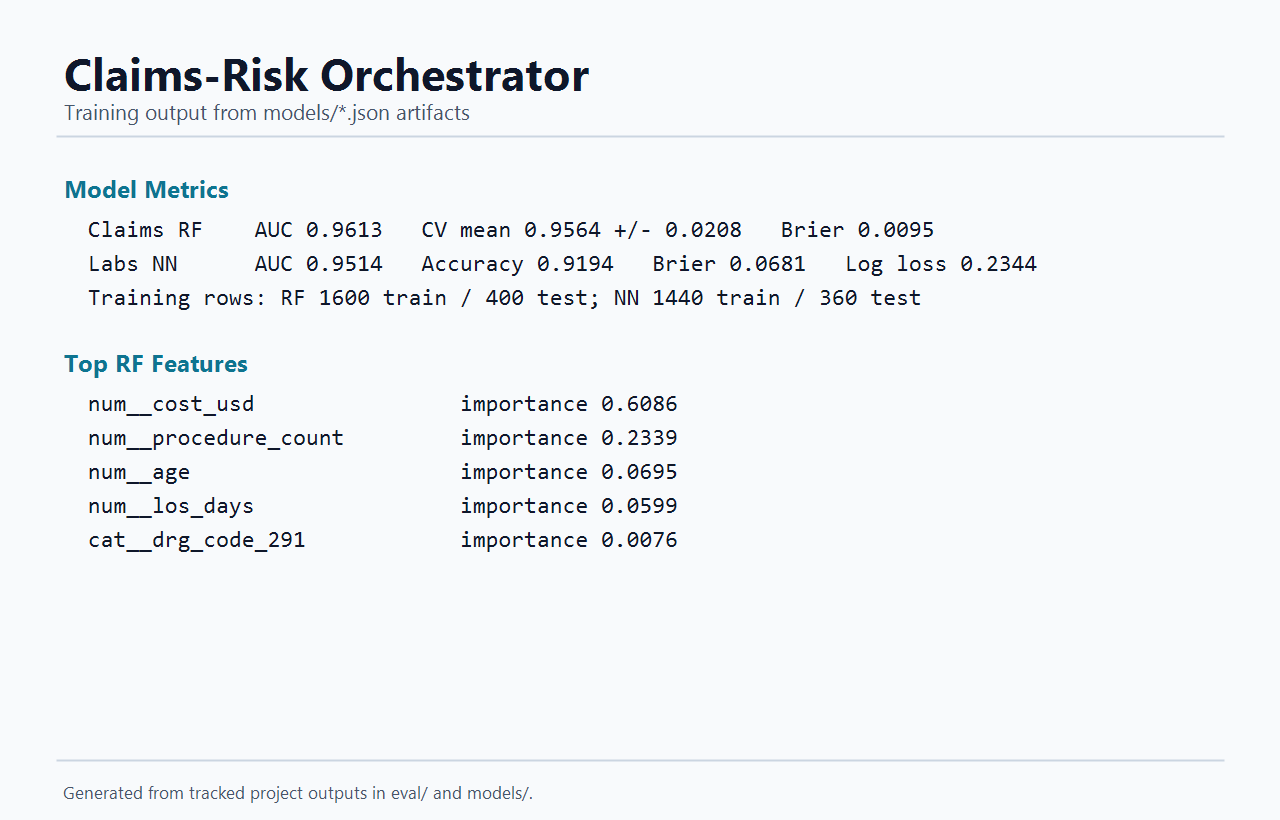
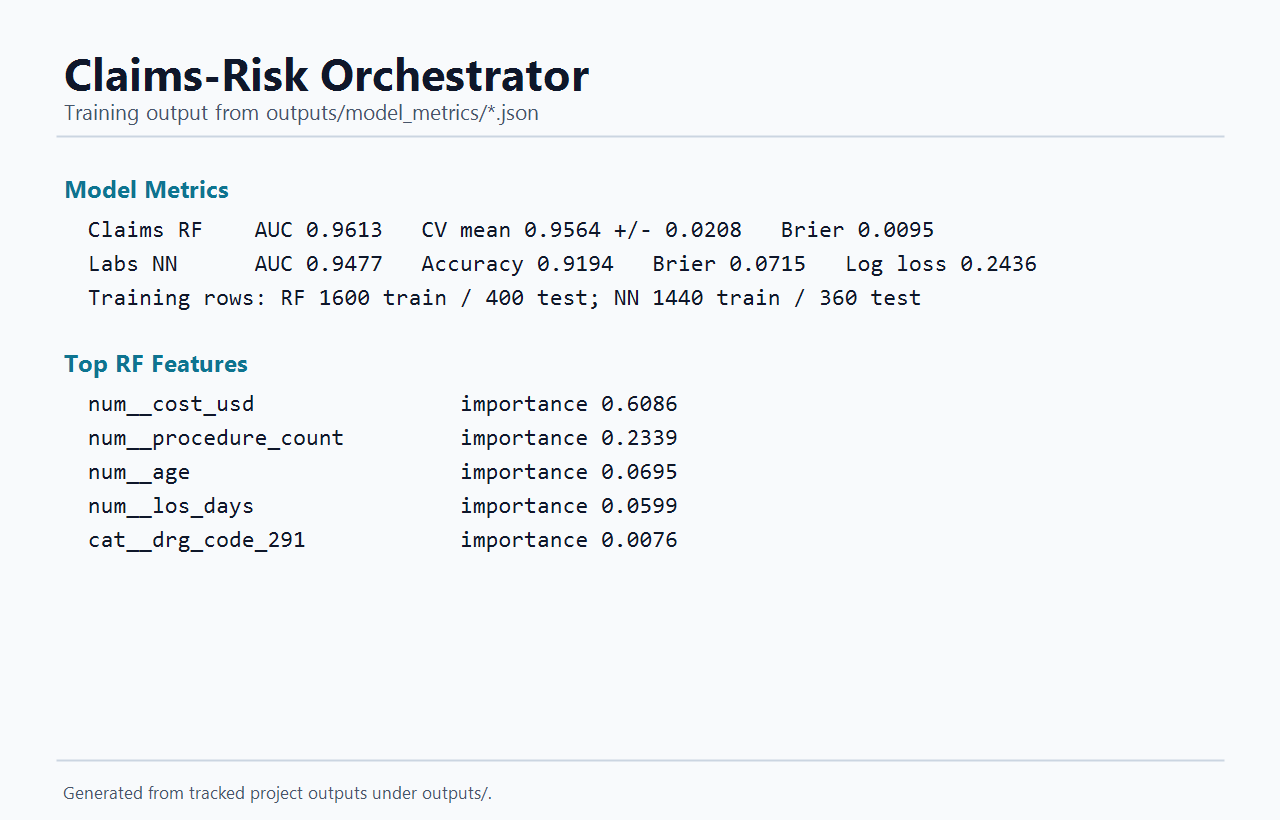
Move published results into outputs

diff --git a/src/train_claims_rf.py b/src/train_claims_rf.py
@@ -2,9 +2,9 @@
 Train the Random Forest claims anomaly classifier.
 
 Inputs : data/claims.csv
-Outputs: models/claims_rf.joblib       (model + scaler bundled)
-         models/claims_rf_metrics.json (AUC + calibration + report)
-         models/claims_rf_feature_importance.json (top features)
+Outputs: models/claims_rf.joblib                       (model + scaler bundled)
+         outputs/model_metrics/claims_rf_metrics.json  (AUC + calibration + report)
+         outputs/model_metrics/claims_rf_feature_importance.json (top features)
          mlruns/                       (MLflow tracking — when mlflow installed)
 
 Usage  : python -m src.train_claims_rf
@@ -139,6 +139,7 @@ def main() -> None:
     )[:10]
 
     Path("models").mkdir(exist_ok=True)
+    Path("outputs/model_metrics").mkdir(parents=True, exist_ok=True)
     joblib.dump(pipe, "models/claims_rf.joblib")
 
     metrics = {
@@ -153,8 +154,10 @@ def main() -> None:
         "positive_rate_train": round(float(y_tr.mean()), 4),
         "positive_rate_test": round(float(y_te.mean()), 4),
     }
-    Path("models/claims_rf_metrics.json").write_text(json.dumps(metrics, indent=2))
-    Path("models/claims_rf_feature_importance.json").write_text(
+    metrics_path = Path("outputs/model_metrics/claims_rf_metrics.json")
+    importances_path = Path("outputs/model_metrics/claims_rf_feature_importance.json")
+    metrics_path.write_text(json.dumps(metrics, indent=2))
+    importances_path.write_text(
         json.dumps(
             {"top_features": [{"feature": f, "importance": round(i, 4)} for f, i in top_features]},
             indent=2,
@@ -187,8 +190,8 @@ def main() -> None:
                 "f1_pos": float(report["1"]["f1-score"]),
             })
             mlflow.log_artifact("models/claims_rf.joblib")
-            mlflow.log_artifact("models/claims_rf_metrics.json")
-            mlflow.log_artifact("models/claims_rf_feature_importance.json")
+            mlflow.log_artifact(str(metrics_path))
+            mlflow.log_artifact(str(importances_path))
 
     print(f"Random Forest holdout AUC: {auc:.4f}")
     print(f"  5-fold CV AUC: {np.mean(cv_aucs):.4f} ± {np.std(cv_aucs):.4f}")
@@ -196,6 +199,8 @@ def main() -> None:
     print(f"  Log loss:    {calibration['log_loss']:.4f}")
     print(f"  Top features: {[f for f, _ in top_features[:3]]}")
     print("Saved -> models/claims_rf.joblib")
+    print(f"Metrics -> {metrics_path}")
+    print(f"Features -> {importances_path}")
     if mlflow is not None:
         print("Logged -> mlflow run (open with: mlflow ui --backend-store-uri ./mlruns)")
 

diff --git a/src/train_labs_nn.py b/src/train_labs_nn.py
@@ -4,7 +4,7 @@ Train the TensorFlow Keras DNN that scores lab-panel risk.
 Inputs : data/labs.csv
 Outputs: models/labs_nn.keras
          models/labs_scaler.joblib   (StandardScaler — apply at inference)
-         models/labs_nn_metrics.json (AUC + accuracy + calibration)
+         outputs/model_metrics/labs_nn_metrics.json (AUC + accuracy + calibration)
          mlruns/                     (MLflow tracking — when mlflow installed)
 
 Usage  : python -m src.train_labs_nn
@@ -97,6 +97,7 @@ def main() -> None:
     ll = float(log_loss(y_te, np.clip(proba, 1e-7, 1 - 1e-7)))
 
     Path("models").mkdir(exist_ok=True)
+    Path("outputs/model_metrics").mkdir(parents=True, exist_ok=True)
     model.save("models/labs_nn.keras")
     joblib.dump(scaler, "models/labs_scaler.joblib")
 
@@ -111,7 +112,8 @@ def main() -> None:
         "final_train_auc": round(float(history.history["auc"][-1]), 4),
         "final_val_auc": round(float(history.history["val_auc"][-1]), 4),
     }
-    Path("models/labs_nn_metrics.json").write_text(json.dumps(metrics, indent=2))
+    metrics_path = Path("outputs/model_metrics/labs_nn_metrics.json")
+    metrics_path.write_text(json.dumps(metrics, indent=2))
 
     mlflow = _safe_mlflow()
     if mlflow is not None:
@@ -135,10 +137,11 @@ def main() -> None:
             })
             mlflow.log_artifact("models/labs_nn.keras")
             mlflow.log_artifact("models/labs_scaler.joblib")
-            mlflow.log_artifact("models/labs_nn_metrics.json")
+            mlflow.log_artifact(str(metrics_path))
 
     print(f"Labs NN AUC: {auc:.4f} | accuracy: {acc:.4f} | Brier: {brier:.4f}")
     print("Saved -> models/labs_nn.keras + models/labs_scaler.joblib")
+    print(f"Metrics -> {metrics_path}")
     if mlflow is not None:
         print("Logged -> mlflow run (open with: mlflow ui --backend-store-uri ./mlruns)")
 

diff --git a/eval/run_eval.py b/eval/run_eval.py
@@ -8,13 +8,13 @@ Runs each sample case ``--runs`` times, then reports:
   - failure_rate            : runs that returned an error envelope
 
 Outputs:
-  eval/results.json (machine-readable)
-  eval/results.md   (human-readable summary you can paste anywhere)
+  outputs/evaluation/results.json (machine-readable)
+  outputs/evaluation/results.md   (human-readable summary you can paste anywhere)
 
 Usage:
   python -m eval.run_eval --runs 5
   python -m eval.run_eval --runs 3 --cases A,B
-  python -m eval.run_eval --runs 10 --out eval/baseline.json
+  python -m eval.run_eval --runs 10 --out outputs/evaluation/baseline.json
 
 NOTE: This script consumes Gemini API quota. Each case is ~12 LLM calls.
 Default --runs=3 means ~36 calls per case = ~108 calls total. Stay aware
@@ -220,7 +220,7 @@ def main() -> None:
     p.add_argument(
         "--out",
         type=Path,
-        default=Path("eval/results.json"),
+        default=Path("outputs/evaluation/results.json"),
         help="Output JSON path (markdown sibling is also written)",
     )
     args = p.parse_args()

diff --git a/src/tune_claims_rf.py b/src/tune_claims_rf.py
@@ -4,7 +4,7 @@ Bayesian hyperparameter sweep for the Random Forest claims classifier.
 Replaces the hand-tuned configuration in train_claims_rf.py with a principled
 Optuna search. Optimizes 5-fold CV AUC, logs every trial to MLflow (when
 installed), prints the winning config, and writes it to
-models/claims_rf_best_params.json so train_claims_rf.py can be re-run with it.
+outputs/model_metrics/claims_rf_best_params.json.
 
 Usage:
   python -m src.tune_claims_rf --trials 30 --cv-folds 5
@@ -113,7 +113,7 @@ def main() -> None:
     p.add_argument(
         "--out",
         type=Path,
-        default=Path("models/claims_rf_best_params.json"),
+        default=Path("outputs/model_metrics/claims_rf_best_params.json"),
         help="Where to save the winning params",
     )
     args = p.parse_args()

diff --git a/outputs/public_data_summary.md b/outputs/public_data_summary.md
@@ -1,0 +1,21 @@
+# Public Data Mapping Summary
+
+The project was tested with downloaded public sample data mapped into the
+training schemas by `src.prepare_public_data`.
+
+## Local Mapped Outputs
+
+| File | Rows | GitHub status |
+|------|------|---------------|
+| `data_public/claims.csv` | 66,494 | gitignored generated artifact |
+| `data_public/labs.csv` | 5,928 | gitignored generated artifact |
+| `data_public/notes.csv` | 222 | gitignored generated artifact |
+
+The public CSVs are intentionally not committed. This summary records the
+verified output counts while keeping the repository lightweight.
+
+## Command
+
+```bash
+python -m src.prepare_public_data --raw-dir tmp/raw_public --out data_public
+```

diff --git a/outputs/README.md b/outputs/README.md
@@ -7,15 +7,31 @@ quick repository review. Runtime decision JSONs are still written to
 ## Included Artifacts
 
 - `eval_output_summary.png` - live evaluation summary rendered from
-  `eval/results.json`.
+  `outputs/evaluation/results.json`.
 - `model_output_summary.png` - model metrics and top RF features rendered from
-  `models/*.json`.
+  `outputs/model_metrics/*.json`.
+- `evaluation/results.json` and `evaluation/results.md` - live Gemini
+  evaluation results. The run used a local `GOOGLE_API_KEY` from the ignored
+  environment file; no key is committed.
+- `model_metrics/*.json` - training and tuning metrics copied into the public
+  reviewer output path.
+- `public_data_summary.md` - row counts from the downloaded public sample
+  mapping. The mapped CSVs stay gitignored because they are large generated
+  artifacts.
 
 ## Tested Results
 
 Latest verification on May 4, 2026:
 
 - `python -m pytest tests/ -v` completed with 44 passed tests.
+- `python -m src.train_claims_rf` wrote RF model output metrics to
+  `outputs/model_metrics/`.
+- `python -m src.train_labs_nn` wrote Labs NN output metrics to
+  `outputs/model_metrics/`.
+- Public-data mapper produced `claims.csv` 66,494 rows, `labs.csv` 5,928 rows,
+  and `notes.csv` 222 rows under ignored `data_public/`.
+- Live Gemini evaluation produced 100% decision agreement across sample cases
+  A, B, and C in `outputs/evaluation/results.json`.
 - GitHub CI `Offline tests (no API key)` completed successfully on PR #1.
 - Tracked key-pattern scan returned no committed credentials.
 - Tracked tool-trace scan found no public development-tool traces.

diff --git a/README.md b/README.md
@@ -14,7 +14,7 @@ Fresh baseline from 2026-04-30:
 |------|--------|
 | Offline tests | 44 passed |
 | Claims RF | AUC 0.9613, Brier 0.0095 |
-| Labs NN | AUC 0.9514, Brier 0.0681 |
+| Labs NN | AUC 0.9477, Brier 0.0715 |
 | Live eval | A/B/C all 100% decision agreement across 3 runs |
 | Expected actions | A `AUTO_APPROVE`, B `FLAG_FOR_AUDIT`, C `ESCALATE_TO_HUMAN` |
 
@@ -136,9 +136,10 @@ Outputs are written here:
 |--------|----------------|------------|
 | Final CLI decision JSON | `outputs/decisions/<patient_id>_<timestamp>.json` | `python -m src.main ...` |
 | Audit log JSONL | `logs/audit.jsonl` | ActionAgent audit tool |
-| Eval report | `eval/results.json`, `eval/results.md` | `python -m eval.run_eval --runs 3` |
-| Model metrics | `models/claims_rf_metrics.json`, `models/labs_nn_metrics.json` | training scripts |
-| RF tuning result | `models/claims_rf_best_params.json` | `python -m src.tune_claims_rf --trials 30` |
+| Eval report | `outputs/evaluation/results.json`, `outputs/evaluation/results.md` | `python -m eval.run_eval --runs 3` |
+| Model metrics | `outputs/model_metrics/claims_rf_metrics.json`, `outputs/model_metrics/labs_nn_metrics.json` | training scripts |
+| RF tuning result | `outputs/model_metrics/claims_rf_best_params.json` | `python -m src.tune_claims_rf --trials 30` |
+| Public-data mapping summary | `outputs/public_data_summary.md` | `python -m src.prepare_public_data ...` |
 | MLflow runs | `mlruns/` | training and tuning scripts |
 
 The raw generated CSVs, trained model binaries, local audit logs, `.env`, `.venv`, `mlruns/`, and CLI decision outputs are gitignored by default.
@@ -226,7 +227,7 @@ claims-risk-orchestrator/
 ├── data/                    generated synthetic data (gitignored)
 ├── models/                  trained model artifacts (gitignored)
 ├── logs/                    audit log jsonl (gitignored)
-├── outputs/                 reviewer screenshots + generated decisions (decisions gitignored)
+├── outputs/                 reviewer result artifacts + generated decisions (decisions gitignored)
 ├── src/
 │   ├── generate_data.py     synthesizes claims + labs + notes
 │   ├── train_claims_rf.py   trains the Random Forest model

diff --git a/docs/model_card.md b/docs/model_card.md
@@ -18,8 +18,8 @@ are reproducible from `python -m src.train_claims_rf` and
 - **Hyperparameter selection:** Optuna TPE sampler with 5-fold CV,
   ~30 trials. See `src/tune_claims_rf.py`.
 - **Version / artifact:** `models/claims_rf.joblib`,
-  metrics in `models/claims_rf_metrics.json`,
-  feature importances in `models/claims_rf_feature_importance.json`.
+  metrics in `outputs/model_metrics/claims_rf_metrics.json`,
+  feature importances in `outputs/model_metrics/claims_rf_feature_importance.json`.
 - **Tracking:** every training + tuning run is logged to MLflow under
   experiments `claims-risk-rf` and `claims-risk-rf-sweep`.
 
@@ -45,7 +45,7 @@ See `docs/data_card.md`. ~2,000 synthetic claim rows generated by
 - Stratified 5-fold CV AUC on the training portion to estimate variance
 - Held-out AUC reported as the primary metric
 - Calibration: Brier score + 10-bin reliability curve (see
-  `claims_rf_metrics.json:calibration`)
+  `outputs/model_metrics/claims_rf_metrics.json:calibration`)
 - Per-class precision / recall / f1 in the same metrics file
 
 ### Known limitations
@@ -80,7 +80,7 @@ See `docs/data_card.md`. ~2,000 synthetic claim rows generated by
   batch size 64, validation split 0.1, seed=42.
 - **Version / artifact:** `models/labs_nn.keras`,
   `models/labs_scaler.joblib`,
-  metrics in `models/labs_nn_metrics.json`.
+  metrics in `outputs/model_metrics/labs_nn_metrics.json`.
 - **Tracking:** MLflow experiment `claims-risk-labs-nn`.
 
 ### Intended use

diff --git a/docs/STATUS.md b/docs/STATUS.md
@@ -31,8 +31,8 @@ python -m eval.run_eval --runs 3
 | Model | AUC | Brier | Other |
 |-------|-----|-------|-------|
 | Claims RF holdout | 0.9613 | 0.0095 | 5-fold CV AUC 0.9564 +/- 0.0208; log loss 0.0671 |
-| Labs NN holdout | 0.9514 | 0.0681 | accuracy 0.9194; log loss 0.2344 |
-| RF Optuna sweep | best CV AUC 0.9612 | n/a | 30 trials; best params in `models/claims_rf_best_params.json` |
+| Labs NN holdout | 0.9477 | 0.0715 | accuracy 0.9194; log loss 0.2436 |
+| RF Optuna sweep | best CV AUC 0.9612 | n/a | 30 trials; best params in `outputs/model_metrics/claims_rf_best_params.json` |
 
 RF best params:
 
@@ -48,7 +48,7 @@ RF best params:
 
 ### Live Evaluation
 
-Generated report: `eval/results.json` and `eval/results.md`
+Generated report: `outputs/evaluation/results.json` and `outputs/evaluation/results.md`
 
 | Case | Modal action | Agreement | p50 latency | p95 latency | Failure rate |
 |------|--------------|-----------|-------------|-------------|--------------|